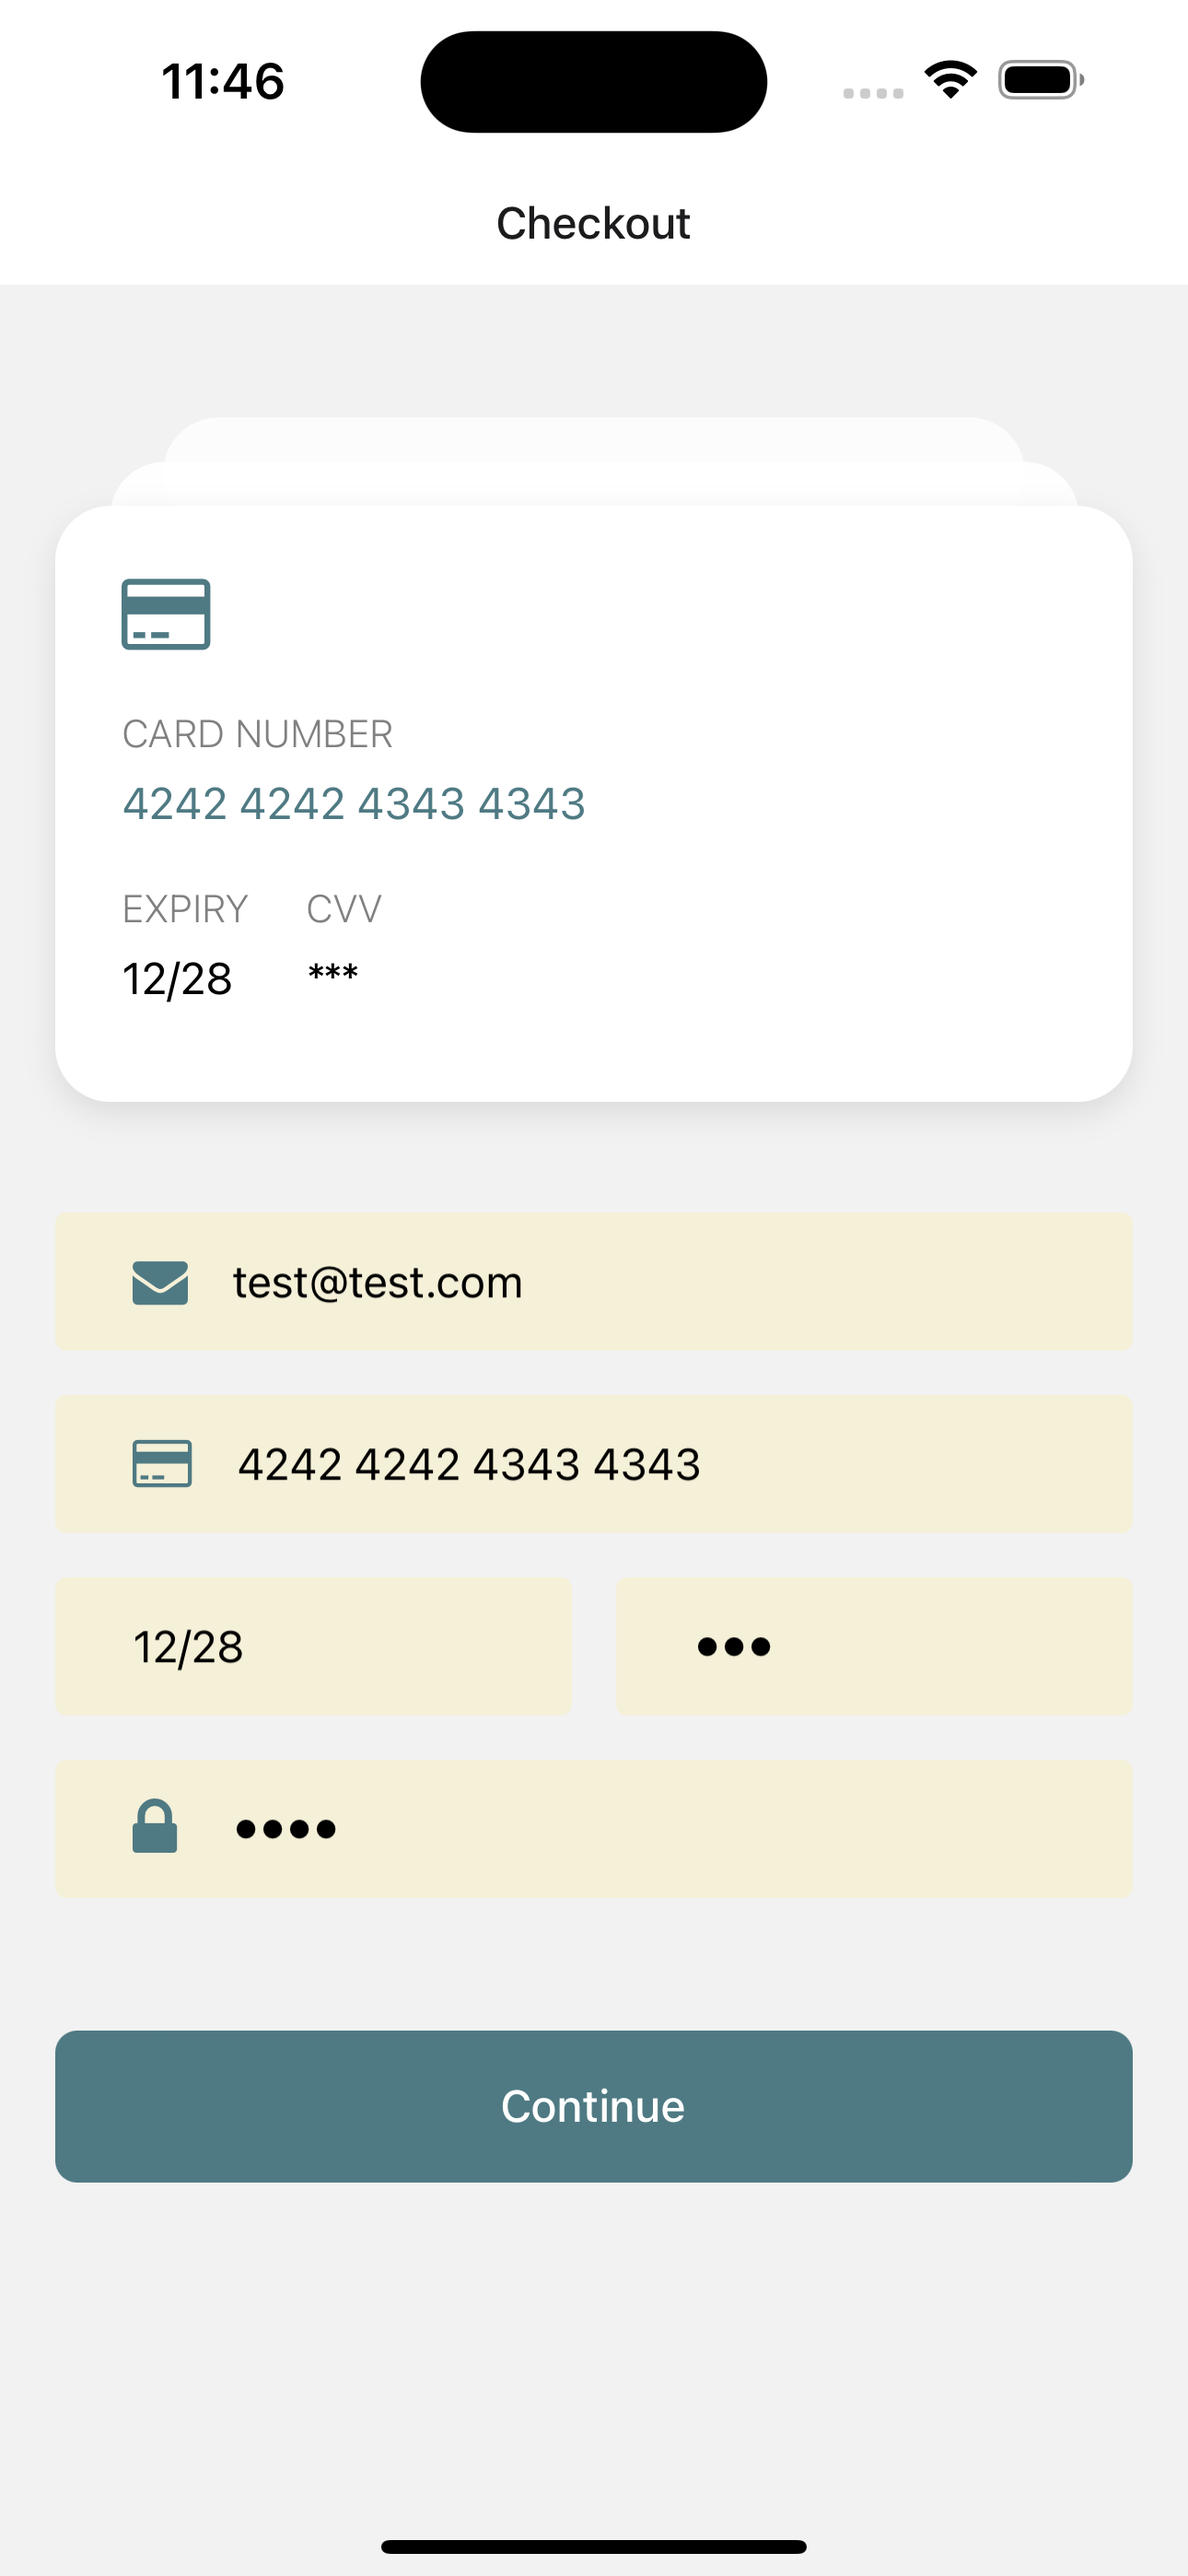
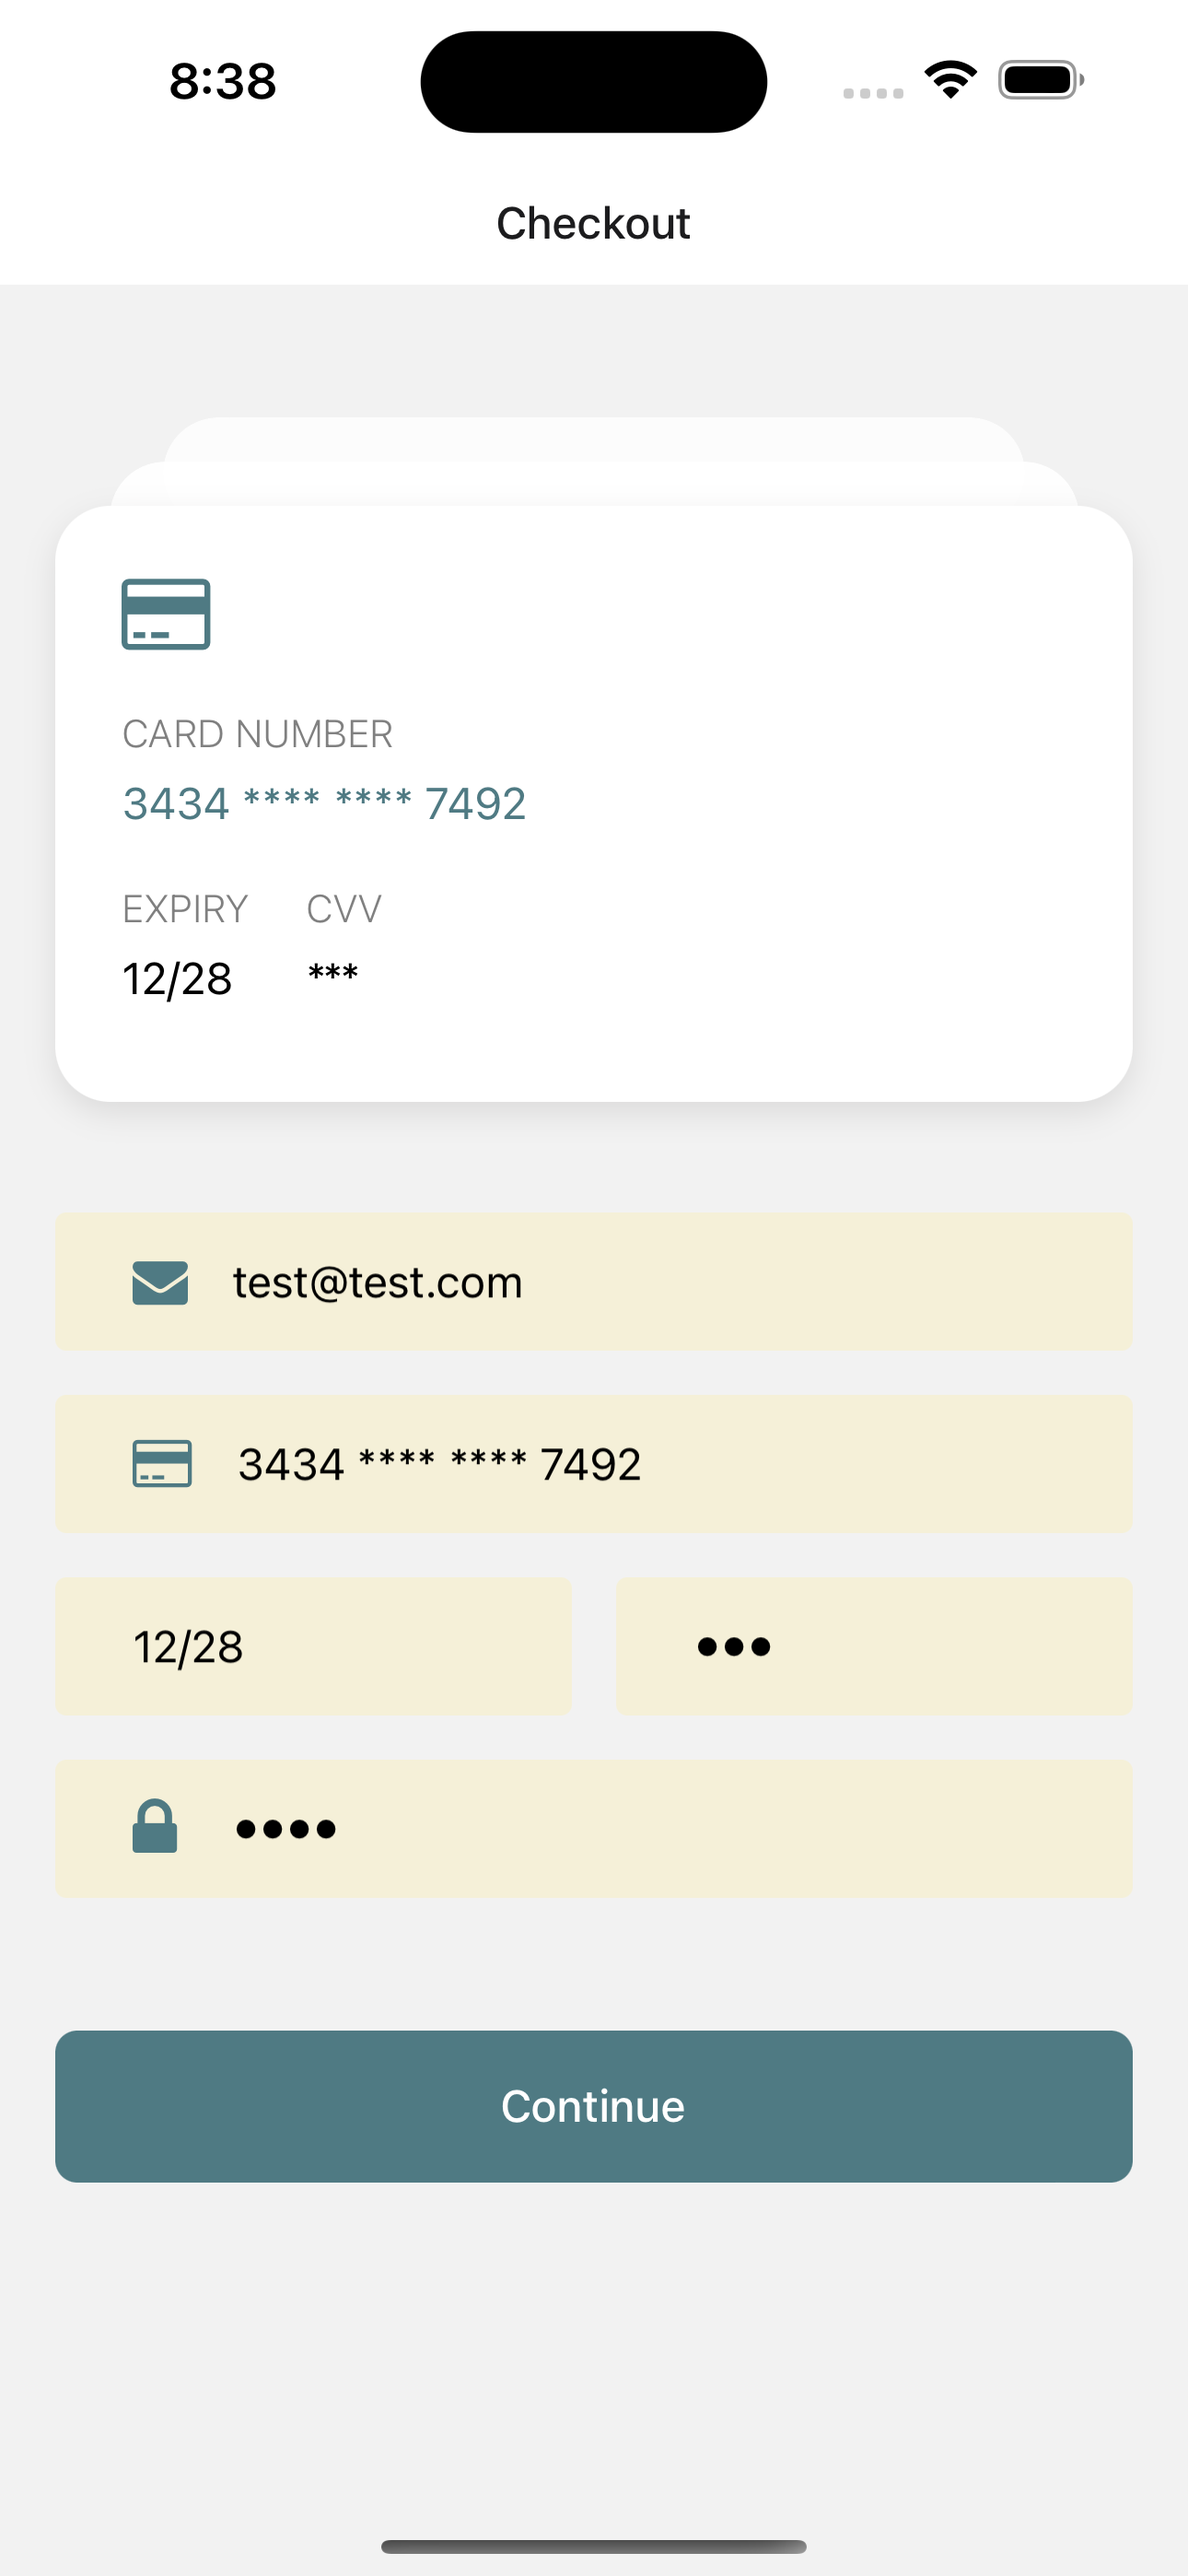
fix: updates

diff --git a/src/components/Card/index.tsx b/src/components/Card/index.tsx
@@ -3,6 +3,7 @@ import React from "react";
 import useStyles from "../../hooks/useStyles";
 import { FormValues, ThemeType } from "../../types";
 import Icon from "react-native-vector-icons/FontAwesome";
+import { creditCardMask, formatTextWithMask } from "../../utils/helpers";
 
 type Props = {
 	formValues: FormValues;
@@ -25,7 +26,7 @@ export default function Card({ formValues }: Props) {
 							{ color: theme.charcoal, opacity: formValues.cardNumber ? 1 : 0.4 },
 						]}
 					>
-						{formValues.cardNumber || "0000 0000 0000 0000"}
+						{formatTextWithMask(formValues.cardNumber, creditCardMask) || "0000 0000 0000 0000"}
 					</Text>
 				</View>
 				<View style={styles.row}>

diff --git a/src/utils/helpers.ts b/src/utils/helpers.ts
@@ -1,6 +1,6 @@
 import Toast from "react-native-root-toast";
 import { toastType } from "../enums";
-import { Mask } from "react-native-mask-input";
+import { Mask, formatWithMask } from "react-native-mask-input";
 import { FormValues } from "../types";
 
 export const showToast = (
@@ -62,4 +62,13 @@ export const formHasErrors = (formValues: FormValues): boolean => {
 	} else {
 		return false;
 	}
+};
+
+export const formatTextWithMask = (text: string, mask: Mask) => {
+	const { obfuscated } = formatWithMask({
+		text,
+		mask,
+	});
+
+	return obfuscated;
 };

diff --git a/src/screens/Home.tsx b/src/screens/Home.tsx
@@ -69,6 +69,7 @@ export default function Home({ navigation }: Props) {
 						leftIconProps={{ name: "credit-card", color: theme.charcoal, size: 20 }}
 						value={formValues.cardNumber}
 						maxLength={19}
+						showObfuscatedValue
 						mask={creditCardMask}
 						onChangeText={(unmasked) => handleChange("cardNumber", unmasked)}
 					/>
